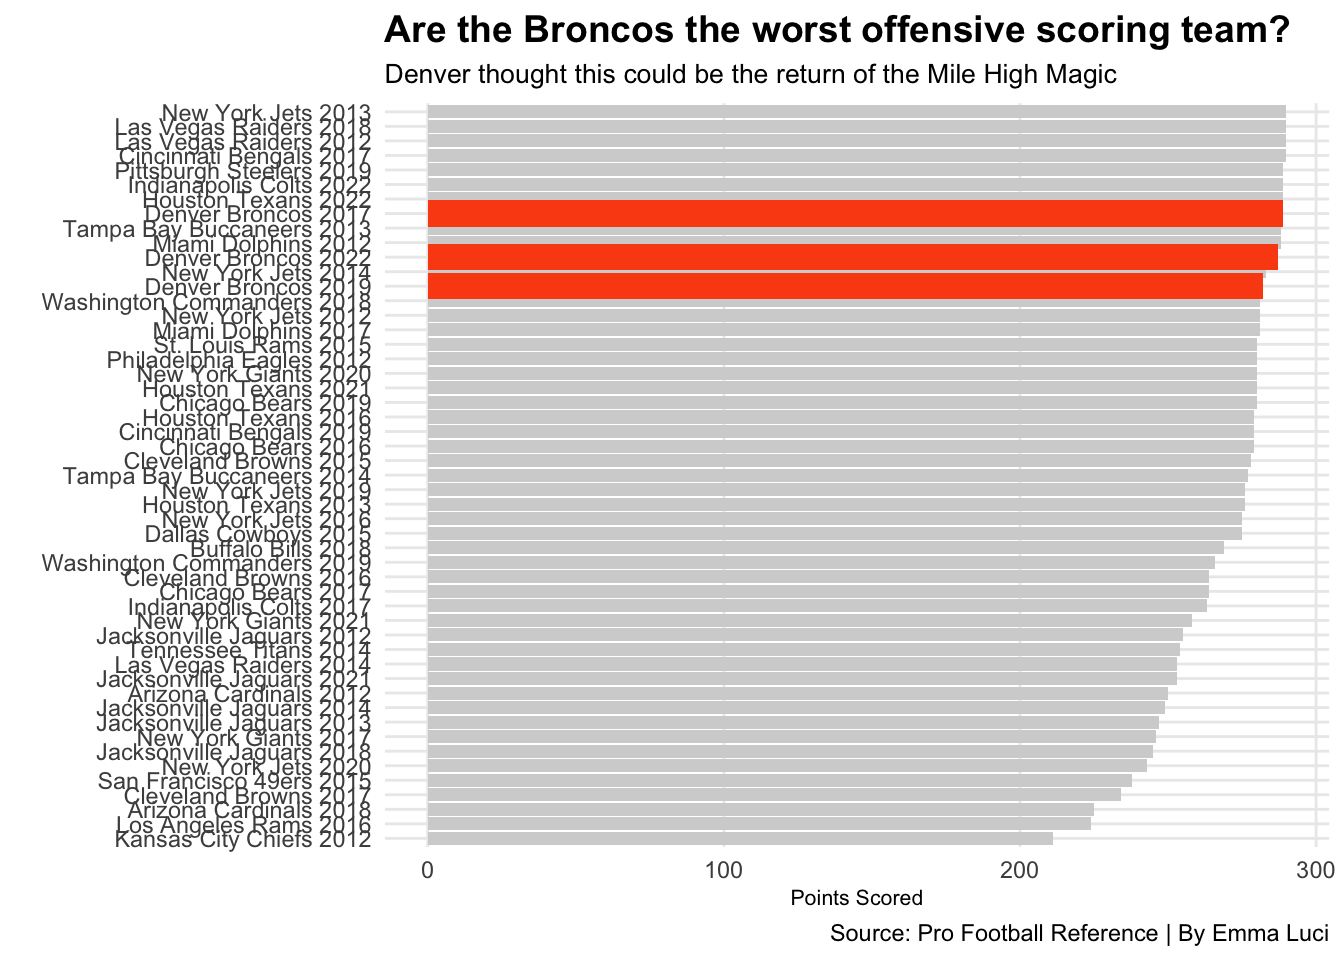
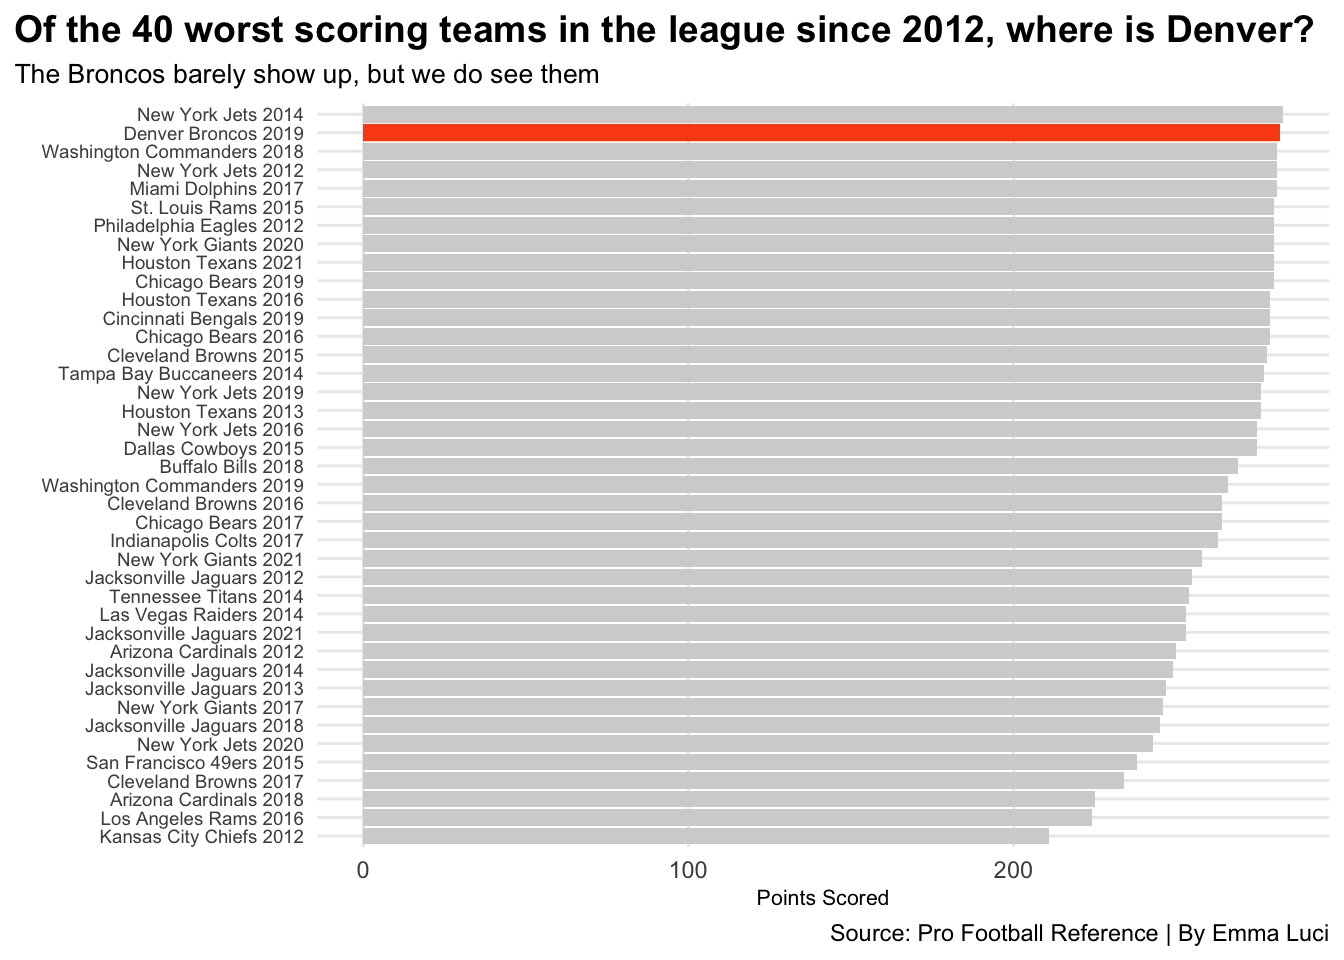
final

Changed region(s): [[0.0, 0.0, 1.0, 0.9375], [0.5625, 0.9062, 0.6875, 0.9688]]

diff --git a/posts/broncos/index.html b/posts/broncos/index.html
@@ -203,7 +203,7 @@ code span.wa { color: #60a0b0; font-weight: bold; font-style: italic; } /* Warni
 
 
 <p>Denver Broncos fans are already looking forward to the 2023 season. Dedicated fans were caught blindly optimistic after the five-year contract binding Russell Wilson to the 2021 team last march was able to fill the team’s quarterback position. Yet, after signing Wilson under a&nbsp; hefty $245 million, it seems there aren’t any easy solutions for the franchise following his rocky start.&nbsp;&nbsp;</p>
-<p>The recent addition of head coach Sean Payton is certain to stir up a new found hope once again in the city of Denver and for fans across the country. Though the off season is the perfect time to project the future for the franchise, it is also the most important time to reflect on the past dreadful seasons. Not only did the team struggle tremendously last season, but they had reportedly the worst-scoring offense, averaging at just 16.9 points for each game they played. The injury of back left tackle Garret Boles left a huge dent in their offensive line. Denver was alos one of the worst sack rate teams in the NFL this last season ranking at 30th overall among teams. Many fans pointed fingers at Russell Wilson, as he was ranked 25th statistically out of 32 quarterbacks with at least 300 drop backs and a completion percentage that was surprisingly above the anticipated -1.1 percent. The broncos have been unsuccessful with filling the quarterback position comfortably since the loss of Peyton Manning after the team’s Superbowl winning 2015 season.&nbsp;</p>
+<p>The recent addition of head coach Sean Payton is certain to stir up a new found hope once again in the city of Denver and for fans across the country. Though the off season is the perfect time to project the future for the franchise, it is also the most important time to reflect on the past dreadful seasons. Not only did the team struggle tremendously last season, but they had reportedly the worst-scoring offense, averaging at just 16.9 points for each game they played. The injury of back left tackle Garret Boles left a huge dent in their offensive line. Denver was also one of the worst sack rate teams in the NFL this last season ranking in at 30th overall among teams. Many fans pointed fingers at Russell Wilson, as he was ranked 25th statistically out of 32 quarterbacks with at least 300 drop backs and a completion percentage that was surprisingly above the anticipated -1.1 percent. The broncos have been unsuccessful with filling the quarterback position comfortably since the loss of Peyton Manning after the team’s Superbowl winning 2015 season.</p>
 <p><br>
 <br>
 <br>
@@ -246,42 +246,40 @@ code span.wa { color: #60a0b0; font-weight: bold; font-style: italic; } /* Warni
 <span id="cb1-32"><a href="#cb1-32" aria-hidden="true" tabindex="-1"></a>  <span class="fu">filter</span>(Tm <span class="sc">!=</span> <span class="st">"Avg Team"</span>)</span>
 <span id="cb1-33"><a href="#cb1-33" aria-hidden="true" tabindex="-1"></a></span>
 <span id="cb1-34"><a href="#cb1-34" aria-hidden="true" tabindex="-1"></a><span class="co">#worst 50 scoring teams over last decade in bar chart</span></span>
-<span id="cb1-35"><a href="#cb1-35" aria-hidden="true" tabindex="-1"></a>worst50 <span class="ot">&lt;-</span> scoring <span class="sc">%&gt;%</span> <span class="fu">top_n</span>(<span class="dv">50</span>, <span class="at">wt=</span> <span class="sc">-</span>PF) <span class="sc">%&gt;%</span> <span class="fu">arrange</span>(<span class="fu">desc</span>(PF))</span>
-<span id="cb1-36"><a href="#cb1-36" aria-hidden="true" tabindex="-1"></a></span>
-<span id="cb1-37"><a href="#cb1-37" aria-hidden="true" tabindex="-1"></a>worstbroncos<span class="ot">&lt;-</span>worst50 <span class="sc">%&gt;%</span> <span class="fu">filter</span>(Tm<span class="sc">==</span><span class="st">"Denver Broncos"</span>)</span>
-<span id="cb1-38"><a href="#cb1-38" aria-hidden="true" tabindex="-1"></a></span>
-<span id="cb1-39"><a href="#cb1-39" aria-hidden="true" tabindex="-1"></a><span class="co">#bar chart of worst 50 scoring teams over last decade</span></span>
-<span id="cb1-40"><a href="#cb1-40" aria-hidden="true" tabindex="-1"></a><span class="fu">ggplot</span>() <span class="sc">+</span></span>
-<span id="cb1-41"><a href="#cb1-41" aria-hidden="true" tabindex="-1"></a>  <span class="fu">geom_bar</span>(</span>
-<span id="cb1-42"><a href="#cb1-42" aria-hidden="true" tabindex="-1"></a>    <span class="at">data=</span>worst50,</span>
-<span id="cb1-43"><a href="#cb1-43" aria-hidden="true" tabindex="-1"></a>    <span class="fu">aes</span>(<span class="at">x=</span><span class="fu">reorder</span>(TeamSeason, PF), <span class="at">weight=</span>PF),</span>
-<span id="cb1-44"><a href="#cb1-44" aria-hidden="true" tabindex="-1"></a>    <span class="at">fill=</span><span class="st">"light grey"</span></span>
-<span id="cb1-45"><a href="#cb1-45" aria-hidden="true" tabindex="-1"></a>  )<span class="sc">+</span> </span>
-<span id="cb1-46"><a href="#cb1-46" aria-hidden="true" tabindex="-1"></a>  <span class="fu">geom_bar</span>(</span>
-<span id="cb1-47"><a href="#cb1-47" aria-hidden="true" tabindex="-1"></a>    <span class="at">data=</span>worstbroncos,</span>
-<span id="cb1-48"><a href="#cb1-48" aria-hidden="true" tabindex="-1"></a>     <span class="fu">aes</span>(<span class="at">x=</span><span class="fu">reorder</span>(TeamSeason, PF), <span class="at">weight=</span>PF),</span>
-<span id="cb1-49"><a href="#cb1-49" aria-hidden="true" tabindex="-1"></a>    <span class="at">fill=</span><span class="st">"#FB4F14"</span></span>
-<span id="cb1-50"><a href="#cb1-50" aria-hidden="true" tabindex="-1"></a>  )<span class="sc">+</span></span>
-<span id="cb1-51"><a href="#cb1-51" aria-hidden="true" tabindex="-1"></a><span class="fu">coord_flip</span>()<span class="sc">+</span></span>
-<span id="cb1-52"><a href="#cb1-52" aria-hidden="true" tabindex="-1"></a>  <span class="fu">labs</span>(</span>
-<span id="cb1-53"><a href="#cb1-53" aria-hidden="true" tabindex="-1"></a>    <span class="at">title=</span><span class="st">"Are the Broncos the worst offensive scoring team?"</span>, </span>
-<span id="cb1-54"><a href="#cb1-54" aria-hidden="true" tabindex="-1"></a>    <span class="at">subtitle=</span><span class="st">"Denver thought this could be the return of the Mile High Magic"</span>,</span>
-<span id="cb1-55"><a href="#cb1-55" aria-hidden="true" tabindex="-1"></a>    <span class="at">caption=</span><span class="st">"Source: Pro Football Reference | By Emma Luci"</span>,</span>
-<span id="cb1-56"><a href="#cb1-56" aria-hidden="true" tabindex="-1"></a>    <span class="at">x=</span><span class="st">""</span>, </span>
-<span id="cb1-57"><a href="#cb1-57" aria-hidden="true" tabindex="-1"></a>    <span class="at">y=</span><span class="st">"Points Scored"</span>) <span class="sc">+</span> </span>
-<span id="cb1-58"><a href="#cb1-58" aria-hidden="true" tabindex="-1"></a><span class="fu">theme_minimal</span>() <span class="sc">+</span></span>
-<span id="cb1-59"><a href="#cb1-59" aria-hidden="true" tabindex="-1"></a>  <span class="fu">theme</span>(</span>
-<span id="cb1-60"><a href="#cb1-60" aria-hidden="true" tabindex="-1"></a>   <span class="at">plot.title =</span> <span class="fu">element_text</span>(<span class="at">size =</span> <span class="dv">14</span>, <span class="at">face =</span> <span class="st">"bold"</span>),</span>
-<span id="cb1-61"><a href="#cb1-61" aria-hidden="true" tabindex="-1"></a>    <span class="at">axis.title =</span> <span class="fu">element_text</span>(<span class="at">size =</span> <span class="dv">8</span>), </span>
-<span id="cb1-62"><a href="#cb1-62" aria-hidden="true" tabindex="-1"></a>    <span class="at">plot.subtitle =</span> <span class="fu">element_text</span>(<span class="at">size=</span><span class="dv">10</span>), </span>
-<span id="cb1-63"><a href="#cb1-63" aria-hidden="true" tabindex="-1"></a>    <span class="at">panel.grid.minor =</span> <span class="fu">element_blank</span>()</span>
-<span id="cb1-64"><a href="#cb1-64" aria-hidden="true" tabindex="-1"></a>    ) </span></code><button title="Copy to Clipboard" class="code-copy-button"><i class="bi"></i></button></pre></div>
+<span id="cb1-35"><a href="#cb1-35" aria-hidden="true" tabindex="-1"></a>worst40 <span class="ot">&lt;-</span> scoring <span class="sc">%&gt;%</span> <span class="fu">top_n</span>(<span class="dv">40</span>, <span class="at">wt=</span> <span class="sc">-</span>PF) <span class="sc">%&gt;%</span> </span>
+<span id="cb1-36"><a href="#cb1-36" aria-hidden="true" tabindex="-1"></a>  <span class="fu">mutate</span>(</span>
+<span id="cb1-37"><a href="#cb1-37" aria-hidden="true" tabindex="-1"></a>    <span class="at">fill_color =</span> <span class="fu">case_when</span>(</span>
+<span id="cb1-38"><a href="#cb1-38" aria-hidden="true" tabindex="-1"></a>      Tm <span class="sc">==</span> <span class="st">"Denver Broncos"</span> <span class="sc">~</span> <span class="st">"1"</span>,</span>
+<span id="cb1-39"><a href="#cb1-39" aria-hidden="true" tabindex="-1"></a>      <span class="cn">TRUE</span> <span class="sc">~</span> <span class="st">"2"</span></span>
+<span id="cb1-40"><a href="#cb1-40" aria-hidden="true" tabindex="-1"></a>    )</span>
+<span id="cb1-41"><a href="#cb1-41" aria-hidden="true" tabindex="-1"></a>  )</span>
+<span id="cb1-42"><a href="#cb1-42" aria-hidden="true" tabindex="-1"></a></span>
+<span id="cb1-43"><a href="#cb1-43" aria-hidden="true" tabindex="-1"></a><span class="fu">ggplot</span>() <span class="sc">+</span> </span>
+<span id="cb1-44"><a href="#cb1-44" aria-hidden="true" tabindex="-1"></a>  <span class="fu">geom_bar</span>(<span class="at">data=</span>worst40, <span class="fu">aes</span>(<span class="at">x=</span><span class="fu">reorder</span>(TeamSeason, PF), <span class="at">weight=</span>PF, <span class="at">fill=</span>fill_color))<span class="sc">+</span></span>
+<span id="cb1-45"><a href="#cb1-45" aria-hidden="true" tabindex="-1"></a>  <span class="fu">scale_fill_manual</span>(<span class="at">values=</span><span class="fu">c</span>(<span class="st">"#FB4F14"</span>, <span class="st">"light grey"</span>)) <span class="sc">+</span></span>
+<span id="cb1-46"><a href="#cb1-46" aria-hidden="true" tabindex="-1"></a>  <span class="fu">coord_flip</span>()<span class="sc">+</span></span>
+<span id="cb1-47"><a href="#cb1-47" aria-hidden="true" tabindex="-1"></a>  <span class="fu">labs</span>(</span>
+<span id="cb1-48"><a href="#cb1-48" aria-hidden="true" tabindex="-1"></a>    <span class="at">title=</span><span class="st">"Of the 40 worst scoring teams in the league since 2012, where is Denver? "</span>, </span>
+<span id="cb1-49"><a href="#cb1-49" aria-hidden="true" tabindex="-1"></a>    <span class="at">subtitle=</span><span class="st">"The Broncos barely show up, but we do see them"</span>,</span>
+<span id="cb1-50"><a href="#cb1-50" aria-hidden="true" tabindex="-1"></a>    <span class="at">caption=</span><span class="st">"Source: Pro Football Reference | By Emma Luci"</span>,</span>
+<span id="cb1-51"><a href="#cb1-51" aria-hidden="true" tabindex="-1"></a>    <span class="at">x=</span><span class="st">""</span>, </span>
+<span id="cb1-52"><a href="#cb1-52" aria-hidden="true" tabindex="-1"></a>    <span class="at">y=</span><span class="st">"Points Scored"</span>) <span class="sc">+</span> </span>
+<span id="cb1-53"><a href="#cb1-53" aria-hidden="true" tabindex="-1"></a><span class="fu">theme_minimal</span>() <span class="sc">+</span></span>
+<span id="cb1-54"><a href="#cb1-54" aria-hidden="true" tabindex="-1"></a>  <span class="fu">theme</span>(</span>
+<span id="cb1-55"><a href="#cb1-55" aria-hidden="true" tabindex="-1"></a>   <span class="at">plot.title =</span> <span class="fu">element_text</span>(<span class="at">size =</span> <span class="dv">14</span>, <span class="at">face =</span> <span class="st">"bold"</span>),</span>
+<span id="cb1-56"><a href="#cb1-56" aria-hidden="true" tabindex="-1"></a>    <span class="at">axis.title =</span> <span class="fu">element_text</span>(<span class="at">size =</span> <span class="dv">8</span>), </span>
+<span id="cb1-57"><a href="#cb1-57" aria-hidden="true" tabindex="-1"></a>    <span class="at">plot.subtitle =</span> <span class="fu">element_text</span>(<span class="at">size=</span><span class="dv">10</span>), </span>
+<span id="cb1-58"><a href="#cb1-58" aria-hidden="true" tabindex="-1"></a>    <span class="at">panel.grid.minor =</span> <span class="fu">element_blank</span>(),</span>
+<span id="cb1-59"><a href="#cb1-59" aria-hidden="true" tabindex="-1"></a>   <span class="at">legend.position =</span> <span class="st">"none"</span>,</span>
+<span id="cb1-60"><a href="#cb1-60" aria-hidden="true" tabindex="-1"></a>   <span class="at">axis.text.y =</span> <span class="fu">element_text</span>(<span class="at">size=</span><span class="dv">7</span>),</span>
+<span id="cb1-61"><a href="#cb1-61" aria-hidden="true" tabindex="-1"></a>   <span class="at">plot.title.position =</span> <span class="st">"plot"</span></span>
+<span id="cb1-62"><a href="#cb1-62" aria-hidden="true" tabindex="-1"></a>  )</span></code><button title="Copy to Clipboard" class="code-copy-button"><i class="bi"></i></button></pre></div>
 </details>
 <div class="cell-output-display">
 <p><img src="index_files/figure-html/unnamed-chunk-1-1.png" class="img-fluid" width="672"></p>
 </div>
 </div>
-<p>The Denver Broncos have not had the best luck over the last couple of years when it comes to winning games, or with performance quality. But as a dedicated fan for as long as I can remember, it interested me to look at exact numbers to prove some of these interesting rumors and questions regarding the team’s success to be revealed as true or not. The main thing I wanted to look at overall, was the offensive tragedy of the team over the last couple of seasons. To see where the Broncos have stood in comparison to other teams, I collected information of the 50 worst-scoring NFL teams over the last decade.&nbsp;</p>
+<p>The Denver Broncos have not had the best luck over the last couple of years when it comes to winning games, or with their overall performance quality. But as dedicated fans would love to have their questions answered, it interesting to look at exact numbers to prove some of these interesting rumors and questions regarding the team’s success to be revealed as true or not. The main thing I wanted to look at overall, was the offensive tragedy of the team over the last couple of seasons. To see where the Broncos have stood in comparison to other teams, we can see the story though information of the 40 worst-scoring NFL teams over the last decade.&nbsp;</p>
 <p><br>
 </p>
 <div class="cell">
@@ -333,9 +331,7 @@ code span.wa { color: #60a0b0; font-weight: bold; font-style: italic; } /* Warni
 <p><img src="index_files/figure-html/unnamed-chunk-2-1.png" class="img-fluid" width="672"></p>
 </div>
 </div>
-<p>I wondered how the Broncos would align when compared to the rest of the league when being ranked by conference, so I looked at the scoring percentages of all of the AFC teams in the NFL. I had heard and seen a lot of opinions on Denver after their terrifying season opener game, and it made me want to know if my team was really falling to pieces.&nbsp;</p>
-<p><br>
-</p>
+<p>I wondered how the Broncos would align when compared to the rest of the league when being ranked by conference, so I looked at the scoring percentages of all of the AFC teams in the NFL. There has been a lot of tweets and news all over about Denver after their terrifying season opener game, and it made me want to know if my team was really falling to pieces as they seemed.</p>
 <div class="cell">
 <details>
 <summary>Code</summary>
@@ -366,10 +362,8 @@ code span.wa { color: #60a0b0; font-weight: bold; font-style: italic; } /* Warni
 <p><img src="index_files/figure-html/unnamed-chunk-3-1.png" class="img-fluid" width="672"></p>
 </div>
 </div>
-<p>As a Broncos fan, there is and always has been a deep burning hatred for the Kansas City Chiefs that runs through my bloodstream. With that being said, it utterly pains me to see the visual of the absolute downfall of my favorite football team. I assumed this huge drop-off had something to do with the painful loss of Peyton Manning after we won the 2015 Superbowl.&nbsp;</p>
-<p>After investigating my curiosity on the awful past performances of my favorite team of all time, I was slightly surprised to find out I was wrong when I had originally thought that this past season had to be the “historically worst” season for the franchise. It was surprising to look at how the Broncos lined up with the rest of the teams in the league. The hire of Sean Payton for $18 million per season as the newest head coach for the upcoming 2023 season is a new found spark of the dying flame that is my hope for the future of the Denver Broncos. I am interested to see what the return of Vance Joseph will bring to the team, as well as Joe Lombardi in charge of the offense. Well we all know the saying, so lets ride.&nbsp;</p>
-<p><br>
-</p>
+<p>Naturally, Broncos fans have a deep burning hatred for the Kansas City Chiefs that runs through our bloodstream. With that being said, it is utterly painful to see the visuals of the absolute downfall of my favorite football team. It doesn’t take a wild guess to see that this huge drop-off had something to do with the painful loss of Peyton Manning after we won the 2015 Superbowl.</p>
+<p>After investigating multiple curiosities on the awful past performances of my favorite, I was slightly surprised to find out I was wrong when I had originally thought that this past season had to be the “historically worst” season for the franchise. It was surprising to look at how the Broncos lined up with the rest of the teams in the league. The hire of Sean Payton for $18 million per season as the newest head coach for the upcoming 2023 season is a new found spark of the dying flame that is my hope for the future of the Denver Broncos. I am interested to see what the return of Vance Joseph will bring to the team, as well as Joe Lombardi in charge of the offense. Well we all know the saying, so lets ride.</p>
 
 
 

diff --git a/index.html b/index.html
@@ -165,7 +165,7 @@ ul.task-list li input[type="checkbox"] {
 
 <div class="quarto-listing quarto-listing-container-default" id="listing-listing">
 <div class="list quarto-listing-default">
-<div class="quarto-post image-right" data-index="0" data-listing-date-sort="1650085200000" data-listing-file-modified-sort="1681495469862" data-listing-reading-time-sort="8.46">
+<div class="quarto-post image-right" data-index="0" data-listing-date-sort="1650085200000" data-listing-file-modified-sort="1681495859929" data-listing-reading-time-sort="8.445">
 <div class="thumbnail">
 <p><a href="./posts/broncos/index.html"> <img src="./posts/broncos/image.png" class="thumnail-image"> </a></p>
 </div>
